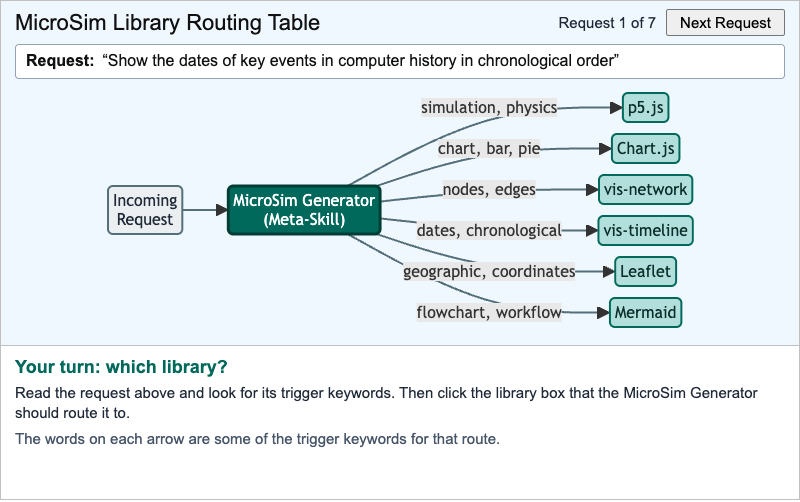
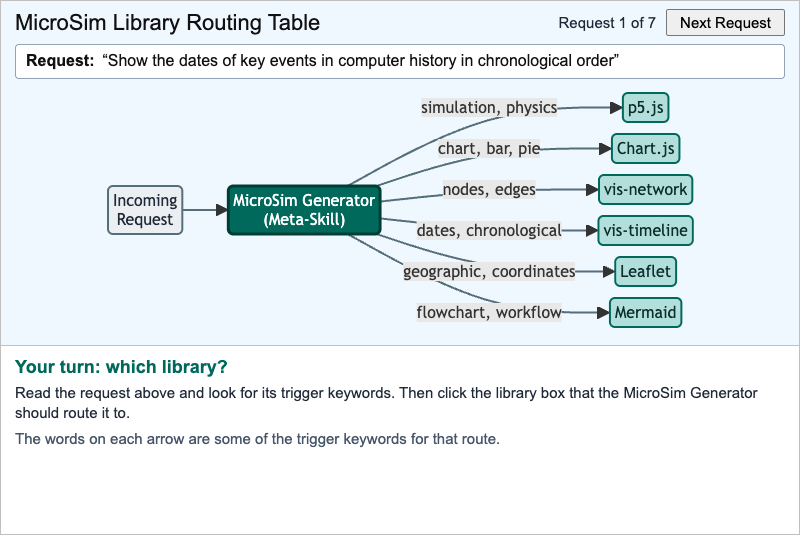
Fix routing-table MicroSim overflow at chapter embed width
The feedback panel in microsim-library-routing-table overflowed between 620
and 700 px, which includes the 688 px chapter column, so raise its height
from 500 to 535 and sync the chapter 23 iframe. Recapture the
token-waste-reinforcing-loop screenshot after its breakpoint fix.

Changed region(s): [[0.0, 0.1494, 1.0, 0.8367], [0.0, 0.0, 1.0, 0.1494], [0.0312, 0.8665, 0.625, 0.8964]]

diff --git a/docs/sims/microsim-library-routing-table/microsim-library-routing-table.js b/docs/sims/microsim-library-routing-table/microsim-library-routing-table.js
@@ -1,5 +1,5 @@
 // MicroSim Library Routing Table - Mermaid flowchart with a routing exercise
-// CANVAS_HEIGHT: 500
+// CANVAS_HEIGHT: 535
 // Shows how the microsim-generator meta-skill routes a request to one of
 // several visualization libraries by the trigger keywords in the request.
 // The reader is given a request and applies the routing table: click the

diff --git a/docs/sims/microsim-library-routing-table/style.css b/docs/sims/microsim-library-routing-table/style.css
@@ -11,7 +11,7 @@ html, body {
 
 main {
     box-sizing: border-box;
-    height: 500px;
+    height: 535px;
     display: flex;
     flex-direction: column;
     background-color: aliceblue;

diff --git a/docs/sims/microsim-library-routing-table/index.md b/docs/sims/microsim-library-routing-table/index.md
@@ -11,7 +11,7 @@ quality_score: 100
 
 # MicroSim Library Routing Table
 
-<iframe src="main.html" height="502px" width="100%" scrolling="no"></iframe>
+<iframe src="main.html" height="537px" width="100%" scrolling="no"></iframe>
 
 [Run the MicroSim Library Routing Table MicroSim Fullscreen](./main.html){ .md-button .md-button--primary }
 
@@ -65,7 +65,7 @@ You can add this MicroSim to any web page by adding this to your HTML:
 
 ```html
 <iframe src="https://dmccreary.github.io/ibook-skills/sims/microsim-library-routing-table/main.html"
-        height="502px"
+        height="537px"
         width="100%"
         scrolling="no"></iframe>
 ```

diff --git a/docs/chapters/23-microsim-generator-metadata-schema/index.md b/docs/chapters/23-microsim-generator-metadata-schema/index.md
@@ -57,7 +57,7 @@ This chapter builds on concepts from:
 
 #### Diagram: MicroSim Library Routing Table
 
-<iframe src="../../sims/microsim-library-routing-table/main.html" width="100%" height="502px" scrolling="no"></iframe>
+<iframe src="../../sims/microsim-library-routing-table/main.html" width="100%" height="537px" scrolling="no"></iframe>
 
 <details markdown="1">
 <summary>MicroSim Library Routing Table</summary>
